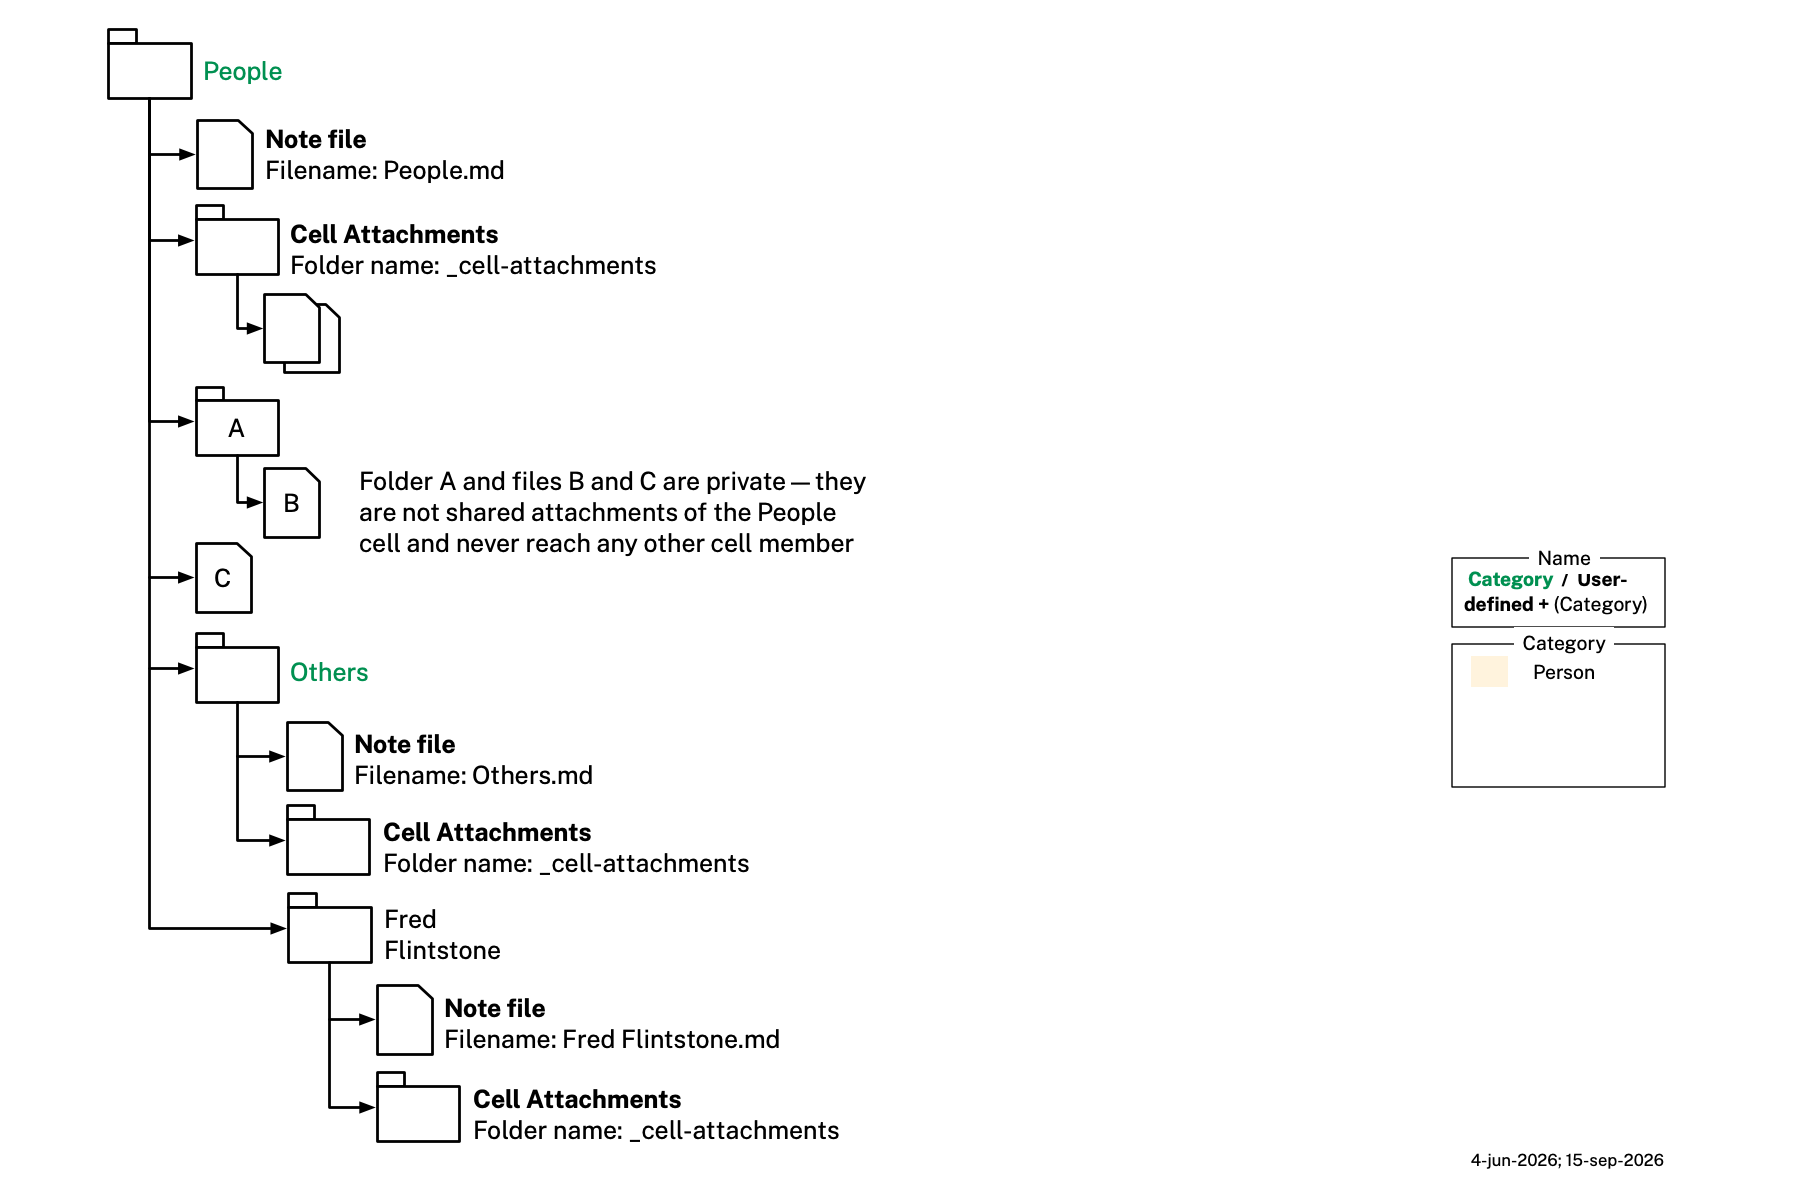
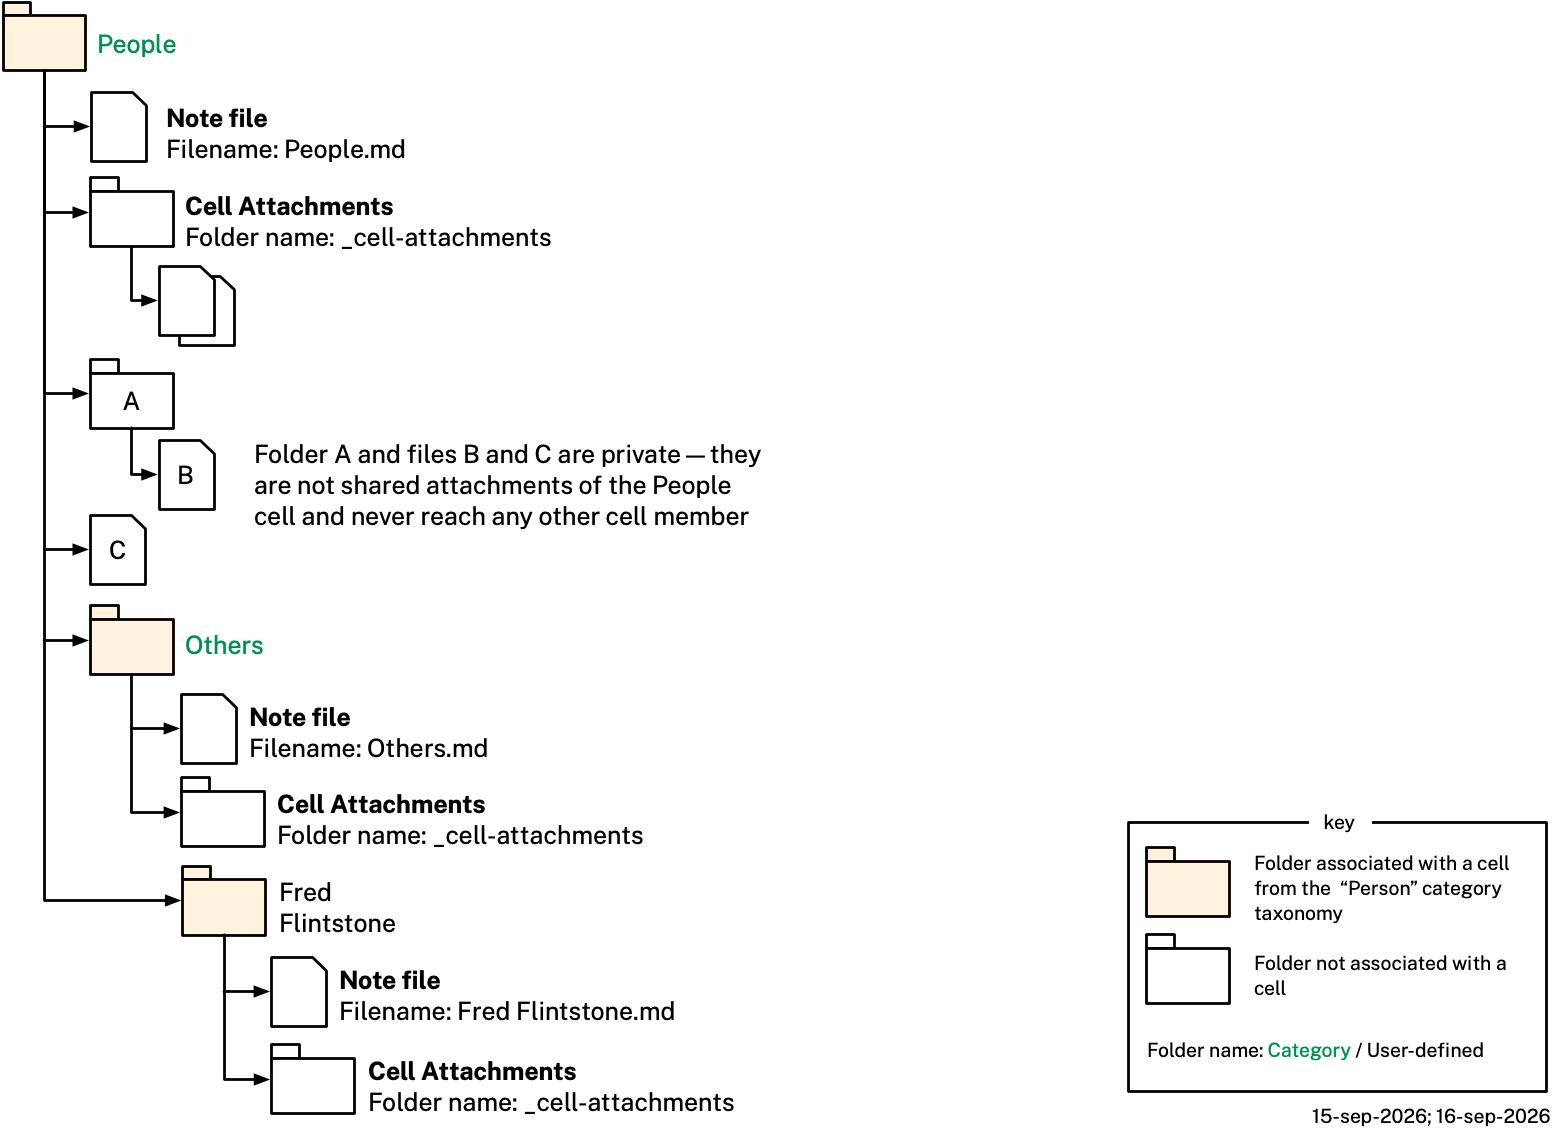
Redraw folder-mapping.png as a real v4 filesystem
The diagram carried a Cell DataBook box for every cell, which is now
development scaffolding rather than something a running v4 puts on disk. It
shows the real filesystem instead: each cell is its folder, holding its note,
its _cell-attachments folder and the member's own private files.

With no DataBook box left to fill, the category color moves onto the folder
icon, which Check 20 already anticipates. That gives the drawing a second job:
tan versus white is now exactly the cell/not-a-cell test the marker decides, so
the key names both, and the _cell-attachments and private-content folders stay
white because neither is a cell.

Check 20's worked examples named a Friends box the redraw replaced with Fred
Flintstone, and cited a DataBook filename the diagram no longer shows.

diff --git a/integrity.md b/integrity.md
@@ -476,7 +476,7 @@ print('OK — title: matches its own folder name for every cell-databook.' if er
 
 If a mismatch is found, the folder name is authoritative — update `title:` to match it exactly, even when the existing `title:` reads more naturally (e.g. an honorific like `Dr. Jane Starostina` vs. folder `Jane Starostina`, or an expansion like `AT&T` vs. folder `ATT`): `title:` is not an independent display-name override, so it cannot legitimately diverge from the folder's own name — the mismatch is drift, not a deliberate choice, since the folder name is also what Check 10a's diagram-box match keys off. If the *folder's* name is what's actually wrong (e.g. it should have been named `AT&T` all along), rename the folder itself instead, then update the cell-databook's filename and `title:` together to match the new folder name.
 
-**Check 20 — `images/folder-mapping.png` folder colors match real data**: This diagram has no dedicated check of its own until now (unlike `representative-cells.png`'s Check 15). Every cell shown in this diagram (and in `representative-cells.png`, and in all 12 example diagrams — Check 10i) carries exactly two independent, mechanically-checkable colors: a **fill** color, applied to whatever box represents the cell — in this diagram the folder icon itself, since it draws no Cell DataBook box: the DataBook is development scaffolding rather than part of a running v4 filesystem, and this diagram shows the real one — (tan if the cell's `v4.category` resolves to `cat:Person`, light blue if `cat:Organization`, purple/Custom if the cell has no category at all) and a folder-**name-text** color (green/"Predefined" if the cell's `title:` equals the category concept's own `skos:prefLabel` verbatim, plain black/"User-defined" otherwise — and always black for a no-category/Custom cell, since there's no label to match). A cell with no category is identified by that absence alone; this repo's scaffolding mirrors it in the cell-databook's filename, which carries the literal `(custom)` disambiguator (see the [Filename Convention](cell-databook.md#filename-convention)). The two facts must always agree; either alone without the other is an error. That pairing is a scaffolding check — at runtime there is no filename to agree with. This is a visual check (no automated pixel/OCR comparison), but the script below computes the correct fill and text color for every real cell, for direct cross-reference against whichever diagram box is being checked — e.g. this diagram's "People" box (category `cat:People`, folder name "People") and its "Others" box (category `cat:Others`, folder name "Others") should each be tan fill + green text, while "Friends" (filename `Friends(people).databook.md`, so category `cat:People`, folder name "Friends") should be tan fill + black text — the user-defined-name case. The diagram currently carries no no-category cell, so the purple/Custom fill has no instance in it; its Category legend accordingly lists **Person** alone. That is the rule for this diagram's legend generally, matching Check 12's for `cell.png`: the Key lists exactly the swatches the drawing actually uses, so a swatch whose case is not drawn comes out rather than standing as an unexercised entry. Run:
+**Check 20 — `images/folder-mapping.png` folder colors match real data**: This diagram has no dedicated check of its own until now (unlike `representative-cells.png`'s Check 15). Every cell shown in this diagram (and in `representative-cells.png`, and in all 12 example diagrams — Check 10i) carries exactly two independent, mechanically-checkable colors: a **fill** color, applied to whatever box represents the cell — in this diagram the folder icon itself, since it draws no Cell DataBook box: the DataBook is development scaffolding rather than part of a running v4 filesystem, and this diagram shows the real one — (tan if the cell's `v4.category` resolves to `cat:Person`, light blue if `cat:Organization`, purple/Custom if the cell has no category at all) and a folder-**name-text** color (green/"Predefined" if the cell's `title:` equals the category concept's own `skos:prefLabel` verbatim, plain black/"User-defined" otherwise — and always black for a no-category/Custom cell, since there's no label to match). A cell with no category is identified by that absence alone; this repo's scaffolding mirrors it in the cell-databook's filename, which carries the literal `(custom)` disambiguator (see the [Filename Convention](cell-databook.md#filename-convention)). The two facts must always agree; either alone without the other is an error. That pairing is a scaffolding check — at runtime there is no filename to agree with. This is a visual check (no automated pixel/OCR comparison), but the script below computes the correct fill and text color for every real cell, for direct cross-reference against whichever diagram box is being checked — e.g. this diagram's "People" box (category `cat:People`, folder name "People") and its "Others" box (category `cat:Others`, folder name "Others") should each be tan fill + green text, while "Fred Flintstone" (category `cat:Others`, folder name "Fred Flintstone") should be tan fill + black text — the user-defined-name case. Only a folder that is a cell carries fill at all: this diagram also draws `_cell-attachments` folders and a private-content folder, which stay white, and its key names that distinction, the tan/white split being exactly the cell/not-a-cell test the marker decides. The diagram currently carries no no-category cell, so the purple/Custom fill has no instance in it; its Category legend accordingly lists **Person** alone. That is the rule for this diagram's legend generally, matching Check 12's for `cell.png`: the Key lists exactly the swatches the drawing actually uses, so a swatch whose case is not drawn comes out rather than standing as an unexercised entry. Run:
 
 ```python
 import glob, re, yaml
